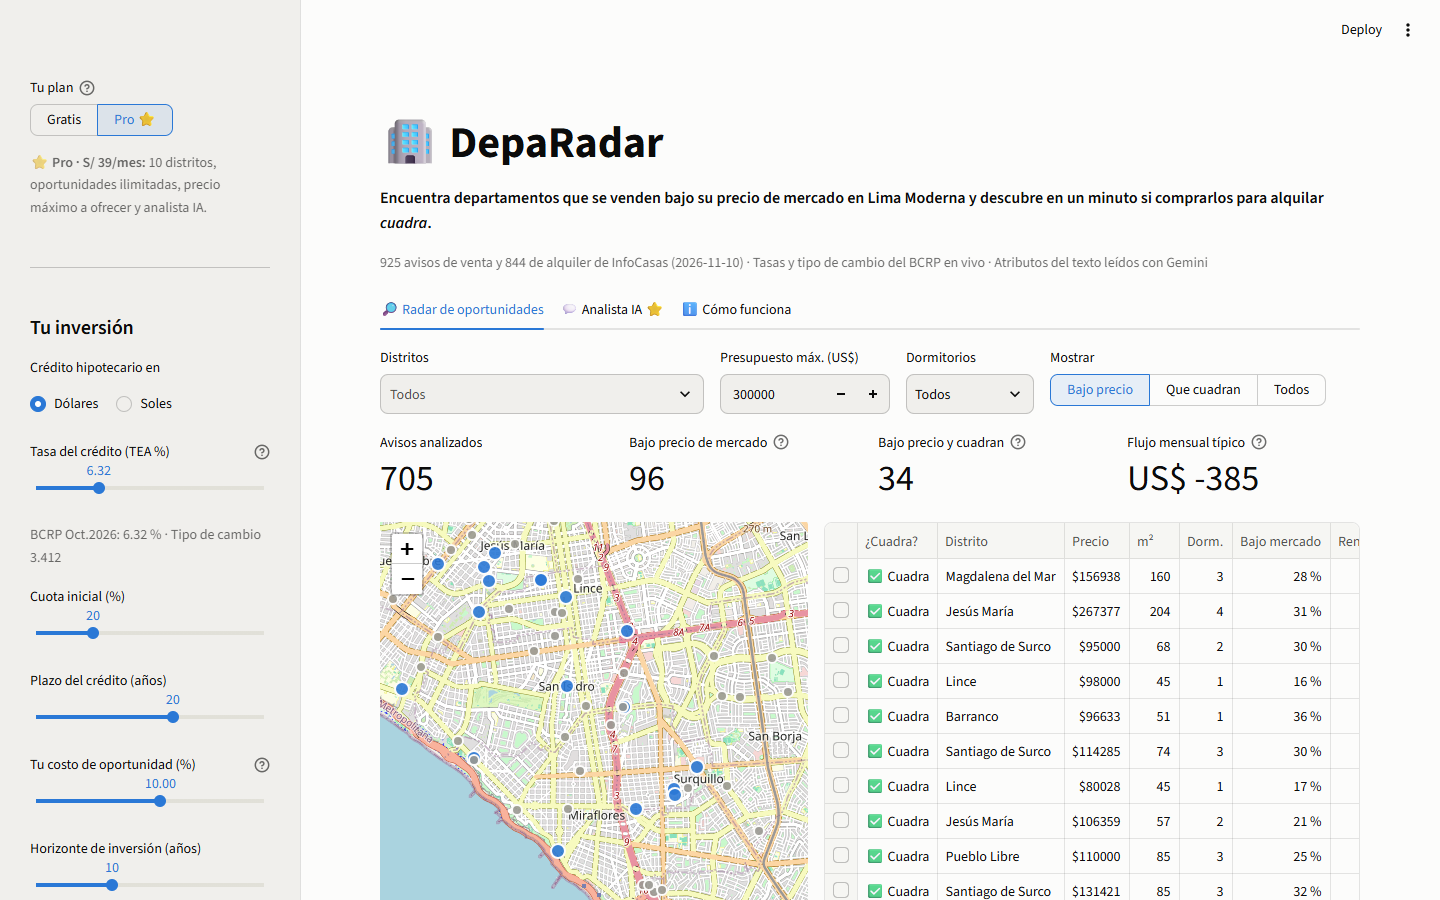
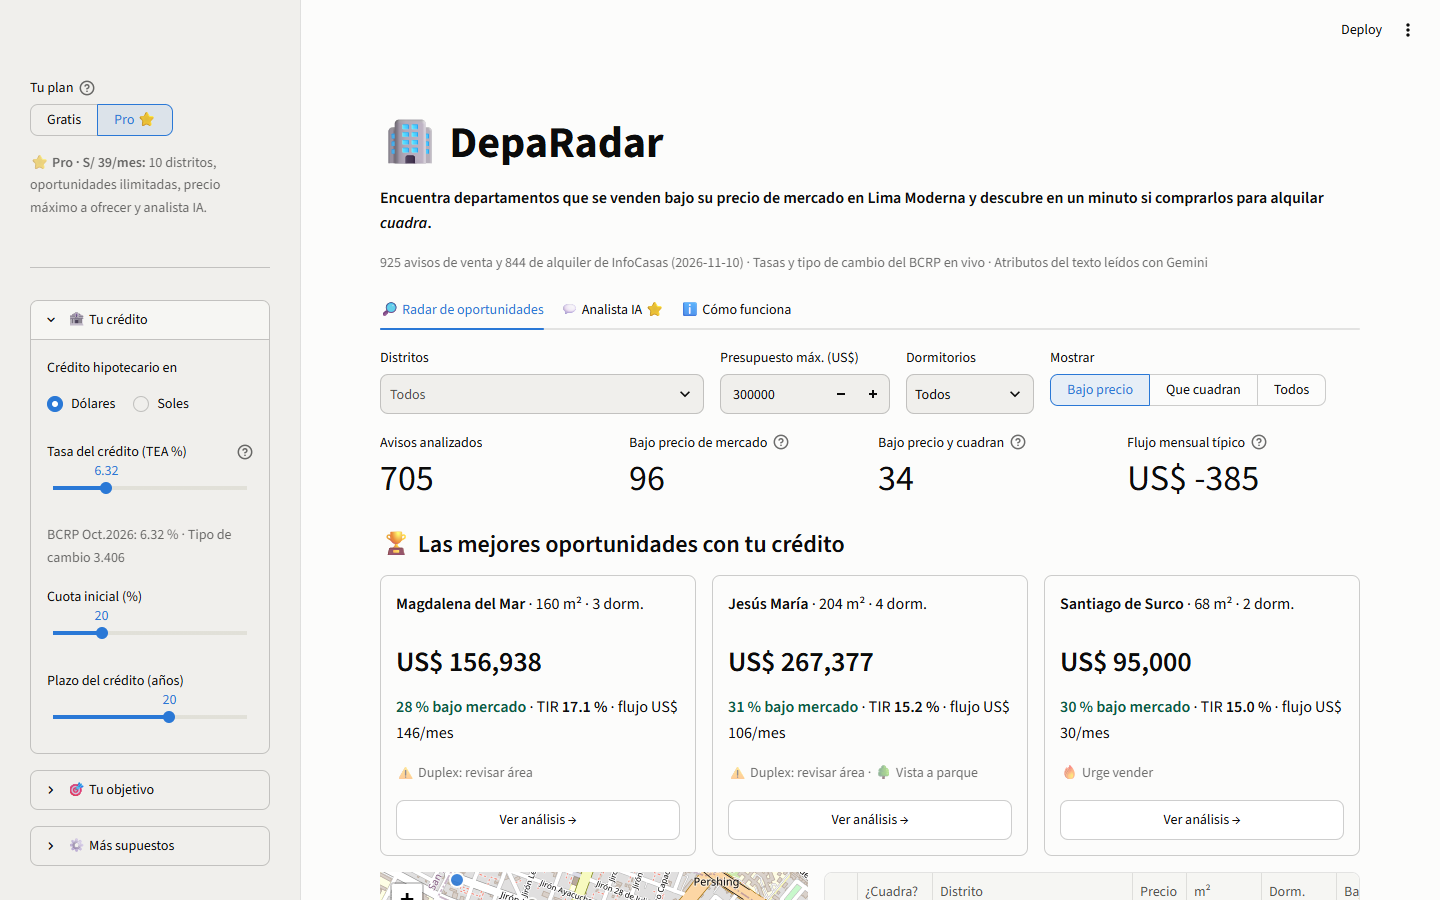
docs: capturas con el nuevo diseño y funciones nuevas en el README

diff --git a/README.md b/README.md
@@ -50,7 +50,9 @@ DepaRadar hace en un minuto lo que a un inversionista le toma semanas:
 3. **Alquiler estimado:** otro modelo, entrenado con 844 avisos de alquiler, estima cuánto rentaría cada departamento en venta.
 4. **Flujo de caja peruano:** cuota hipotecaria, alcabala, notaría, vacancia, predial, impuesto a la renta del alquiler (5 %) y ganancia de capital (5 %), con las tasas del BCRP. Resultado: TIR, VAN y un veredicto de ✅ cuadra o ❌ no cuadra.
 5. **Cuánto ofrecer:** el precio máximo al que la compra todavía cuadra. Es la cifra para negociar.
-6. **Analista IA (plan Pro):** "búscame depas en Surco bajo US$150 mil que cuadren" → responde con avisos reales.
+6. **¿A dónde se va tu alquiler?:** un gráfico de cascada que parte del alquiler publicado y le va restando meses vacíos, impuestos, predial, seguros y cuota, hasta llegar a lo que realmente te queda.
+7. **Informe PDF** del análisis, para llevar al banco o a la negociación (incluido en Pro; S/ 19 suelto).
+8. **Analista IA (plan Pro):** "búscame depas en Surco bajo US$150 mil que cuadren" → responde con avisos reales.
 
 **Insights:**
 - **"Barato" no es lo mismo que "rentable".** De 130 avisos bajo su precio de mercado, solo 39 cuadran con un crédito normal. El valor no está en listar avisos, sino en filtrar los que pasan los números.
